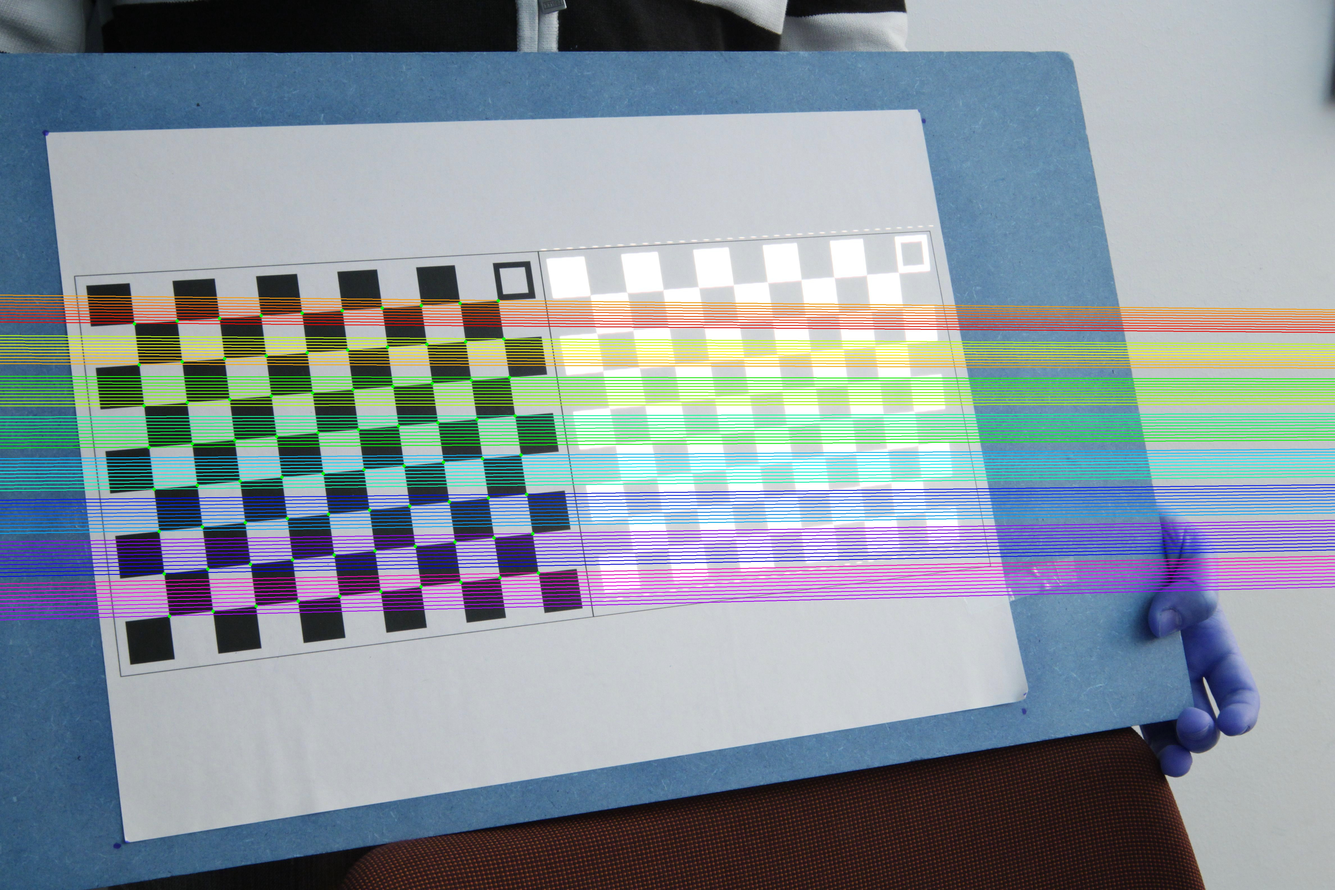
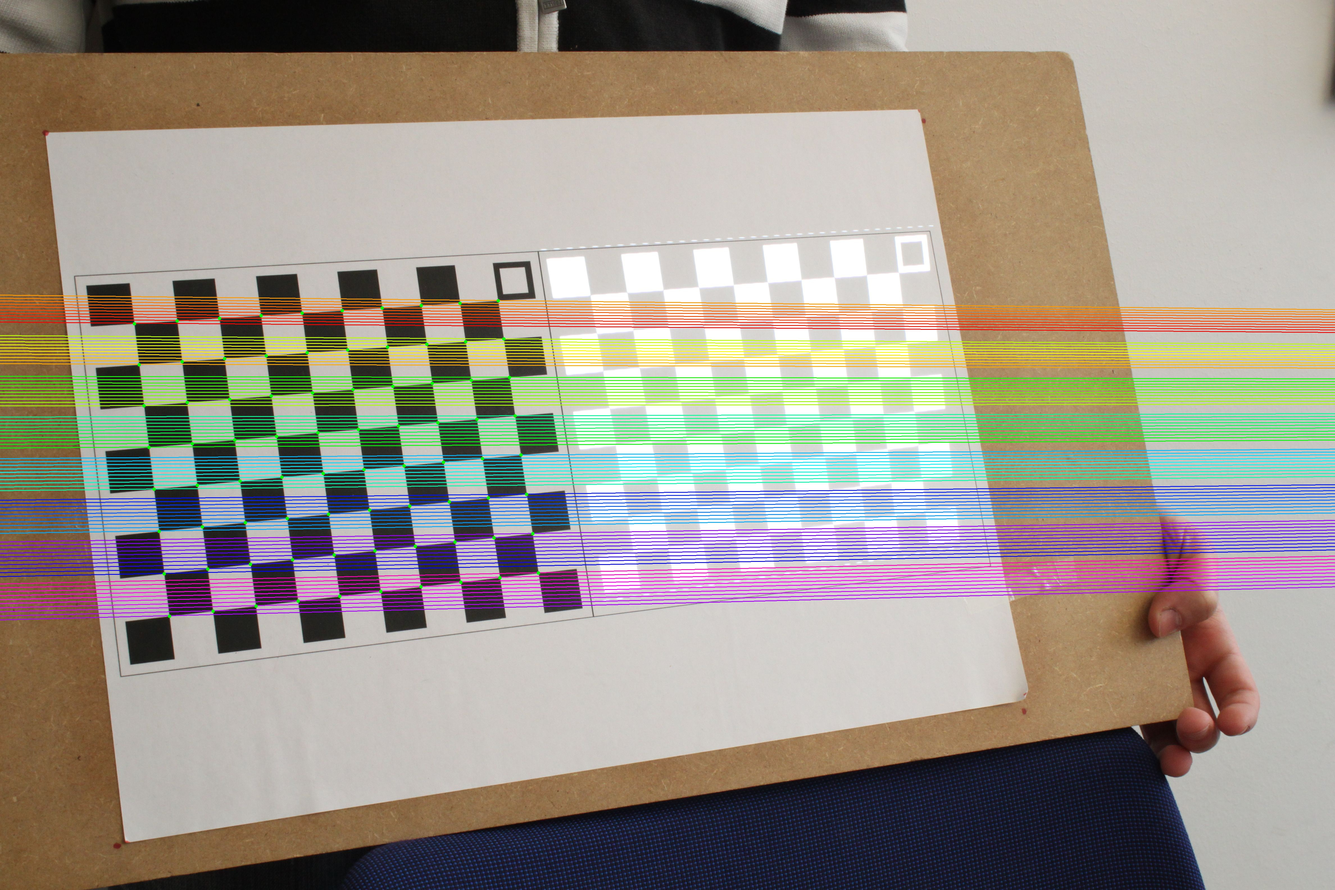
Load on BGR mode instead of RGB

Changed region(s): [[0.0, 0.0, 0.9655, 1.0], [0.9655, 0.0, 1.0, 0.0938]]

diff --git a/ex4/main.py b/ex4/main.py
@@ -6,7 +6,7 @@ import numpy as np
 import os.path as osp
 import scipy.io as sio
 import matplotlib.pyplot as plt
-import matplotlib.image as mpimg
+# import matplotlib.image as mpimg
 
 
 if __name__ == '__main__':
@@ -15,8 +15,8 @@ if __name__ == '__main__':
         os.makedirs(output_path)
 
     print('Loading images...')
-    img1 = mpimg.imread(osp.join('data', 'Camera00.jpg'))
-    img2 = mpimg.imread(osp.join('data', 'Camera01.jpg'))
+    img1 = cv2.imread(osp.join('data', 'Camera00.jpg'))
+    img2 = cv2.imread(osp.join('data', 'Camera01.jpg'))
     H, W, _ = img1.shape
     dims = np.array([[W, H, 1]])
 
@@ -61,12 +61,12 @@ if __name__ == '__main__':
         # y_int = (int-line[-1] / line[1])
         start = (x_int, 0) if x_int > 0 else (W, y(W))
         end = (0, y_int)
-        print([start, end])
+        # print([start, end])
         bgr = cv2.cvtColor(color, cv2.COLOR_HSV2BGR)
         cv2.line(out, start, end, tuple(bgr.flatten().tolist()), 2)
         color[..., 0] += step
 
-    print(count)
+    # print(count)
     for i in range(0, corners_c1.shape[-1]):
         point = tuple(corners_c1[:, i].astype(np.int64).tolist())
         x1 = np.expand_dims(corners_c0[:, i], axis=1)
